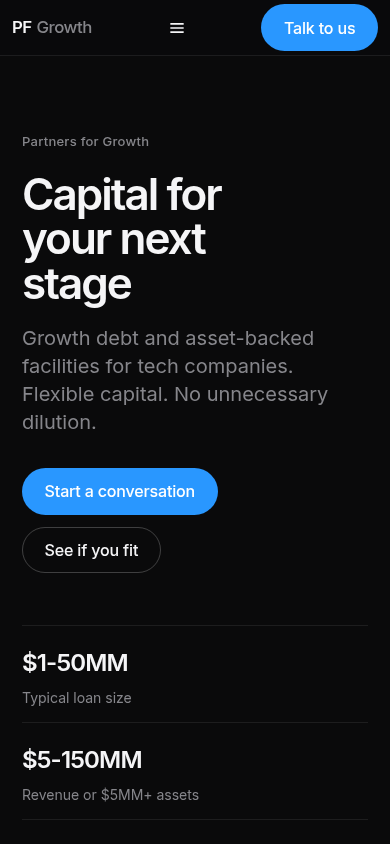
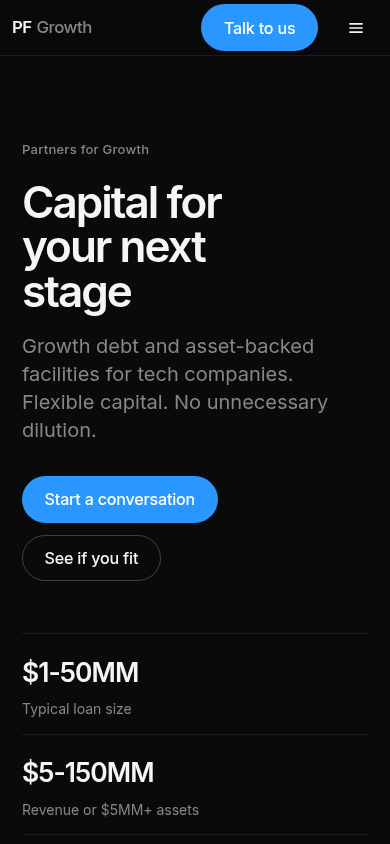
DRAFT: polish A with imagery, fit strip, mobile Talk to us
Integrate original hero/network/global visuals, tighten spacing and
hover/focus, keep DRAFT/noindex/a11y/AU English prototype constraints.

diff --git a/css/styles.css b/css/styles.css
@@ -1,4 +1,4 @@
-/* PF Growth redesign — Apple-like calm clarity, modern fintech */
+/* PF Growth redesign  -  Apple-like calm clarity, modern fintech */
 :root {
   --void: #0a0a0b;
   --panel: #141416;
@@ -188,8 +188,15 @@ a:hover {
 }
 
 .header-cta {
-  display: none;
+  display: inline-flex;
+  padding: 0.45rem 0.95rem;
+  min-height: 36px;
+  font-size: 0.875rem;
+  margin-left: auto;
 }
+.site-header .wrap { flex-wrap: nowrap; }
+.nav-toggle { order: 3; }
+.header-cta { order: 2; }
 
 @media (min-width: 860px) {
   .nav-toggle {
@@ -201,7 +208,9 @@ a:hover {
     background: transparent;
     border: 0;
     padding: 0;
+    order: 2;
   }
+  .header-cta { order: 3; padding: 0.65rem 1.35rem; min-height: 44px; font-size: 1rem; margin-left: 0; }
   .nav ul {
     display: flex;
     align-items: center;
@@ -217,9 +226,6 @@ a:hover {
   .nav a[aria-current="page"] {
     background: transparent;
     color: #f5f5f7;
-  }
-  .header-cta {
-    display: inline-flex;
   }
 }
 
@@ -274,7 +280,7 @@ a:hover {
   opacity: 0.92;
 }
 
-/* Hero — product scale */
+/* Hero  -  product scale */
 .hero {
   padding: 4.5rem 0 3.5rem;
   position: relative;
@@ -867,4 +873,93 @@ a:hover {
 .section-light .eyebrow,
 .section-mist .eyebrow {
   color: var(--mute-on-light);
+}
+
+/* Imagery + polish additions */
+.hero-visual {
+  margin: 2.5rem 0 0;
+  border-radius: 22px;
+  overflow: hidden;
+  border: 1px solid var(--line);
+  aspect-ratio: 16 / 10;
+  background: var(--panel);
+}
+.hero-visual img {
+  width: 100%;
+  height: 100%;
+  object-fit: cover;
+}
+.media-block {
+  margin: 0 0 2.25rem;
+  border-radius: 20px;
+  overflow: hidden;
+  border: 1px solid var(--line-dark);
+  aspect-ratio: 16 / 9;
+  background: #e8e8ed;
+}
+.section-slate .media-block {
+  border-color: var(--line);
+  background: #0f0f11;
+}
+.media-block img {
+  width: 100%;
+  height: 100%;
+  object-fit: cover;
+}
+.section-light .card,
+.section-mist .card {
+  border: 1px solid rgba(0,0,0,0.06);
+  transition: border-color 150ms ease, transform 150ms ease;
+}
+.section-light .card:hover,
+.section-mist .card:hover {
+  border-color: rgba(41,151,255,0.28);
+}
+.section-slate .card:hover {
+  border-color: rgba(41,151,255,0.35);
+}
+.btn:active {
+  transform: scale(0.98);
+}
+.link-arrow {
+  display: inline-flex;
+  align-items: center;
+  gap: 0.35rem;
+  font-weight: 500;
+  letter-spacing: -0.01em;
+  text-decoration: none;
+}
+.link-arrow:hover {
+  gap: 0.5rem;
+}
+.hero {
+  padding: 5rem 0 4rem;
+}
+.section {
+  padding: 6rem 0;
+}
+.page-hero {
+  padding: 4rem 0 2rem;
+}
+.fit-card strong {
+  font-size: 1.65rem;
+}
+.img-caption {
+  margin: 0.65rem 0 0;
+  font-size: 0.8125rem;
+  color: var(--mute);
+}
+.section-light .img-caption,
+.section-mist .img-caption {
+  color: var(--mute-on-light);
+}
+.product-shot {
+  border-radius: 20px;
+  overflow: hidden;
+  border: 1px solid var(--line-dark);
+}
+.product-shot img {
+  width: 100%;
+  height: auto;
+  display: block;
 }

diff --git a/index.html b/index.html
@@ -47,6 +47,9 @@
           <div class="fit-card"><strong>$5-150MM</strong><span>Revenue or $5MM+ assets</span></div>
           <div class="fit-card"><strong>Global</strong><span>Bay Area to Sydney and beyond</span></div>
         </div>
+        <figure class="hero-visual">
+          <img src="images/hero-abstract.png" width="1200" height="750" alt="Abstract cool light field suggesting calm modern capital markets" decoding="async">
+        </figure>
       </div>
     </section>
 
@@ -78,7 +81,7 @@
             <p>Warehouse and receivables facilities for fintech models that scale with their book.</p>
           </article>
         </div>
-        <p style="margin:2rem 0 0"><a href="growth-debt.html">Growth debt vs venture debt →</a></p>
+        <p style="margin:2.25rem 0 0"><a class="link-arrow" href="growth-debt.html">Growth debt vs venture debt →</a></p>
       </div>
     </section>
 
@@ -87,6 +90,9 @@
         <p class="eyebrow">Why founders choose PFG</p>
         <h2>Underwrite the company</h2>
         <p class="section-intro">We read your business, not only your syndicate. VC, PE, family office, or bootstrapped. Strong credit story first.</p>
+        <figure class="media-block">
+          <img src="images/capital-flow.png" width="1200" height="675" alt="Network of luminous capital flow nodes across a dark field" loading="lazy" decoding="async">
+        </figure>
         <ul class="list-check">
           <li>Open to diverse ownership, not only familiar VCs.</li>
           <li>Timing tied to strategy, not only equity rounds.</li>
@@ -113,7 +119,7 @@
             <p>Melbourne patient-booking SaaS used flexible debt to accelerate before cash flow turned positive.</p>
           </article>
         </div>
-        <p style="margin:2rem 0 0"><a href="portfolio.html">Browse proof by region →</a></p>
+        <p style="margin:2.25rem 0 0"><a class="link-arrow" href="portfolio.html">Browse proof by region →</a></p>
       </div>
     </section>
 
@@ -122,6 +128,9 @@
         <p class="eyebrow">Footprint</p>
         <h2>Where we work</h2>
         <p class="section-intro">Local presence from San Francisco Bay Area to Sydney, Boston, Miami, Dubai, and São Paulo.</p>
+        <figure class="media-block" style="aspect-ratio:21/9">
+          <img src="images/global-light.png" width="1200" height="514" alt="Soft global light map suggesting connected markets" loading="lazy" decoding="async">
+        </figure>
         <div class="region-map" aria-label="Regions">
           <div class="region-pill">North America</div>
           <div class="region-pill">Latin America</div>

diff --git a/portfolio.html b/portfolio.html
@@ -43,6 +43,9 @@
 
     <section class="section section-light" style="padding-top:1rem">
       <div class="wrap">
+        <figure class="media-block" style="margin-bottom:2.5rem">
+          <img src="images/global-light.png" width="1200" height="675" alt="Soft global light suggesting portfolio reach across markets" loading="lazy" decoding="async">
+        </figure>
         <div class="grid-2">
           <article class="card story">
             <div class="meta"><span class="tag">MENA · Fintech</span></div>

diff --git a/growth-debt.html b/growth-debt.html
@@ -42,6 +42,11 @@
     </section>
 
     <section class="section section-light" style="padding-top:1.5rem">
+      <div class="wrap">
+        <figure class="media-block" style="margin-bottom:2.5rem">
+          <img src="images/capital-flow.png" width="1200" height="675" alt="Abstract capital network visualising flexible growth facilities" loading="lazy" decoding="async">
+        </figure>
+      </div>
       <div class="wrap split">
         <div>
           <h2>Is this for you?</h2>

diff --git a/about.html b/about.html
@@ -42,6 +42,11 @@
     </section>
 
     <section class="section section-light" style="padding-top:1rem">
+      <div class="wrap">
+        <figure class="media-block" style="margin-bottom:2.5rem">
+          <img src="images/hero-abstract.png" width="1200" height="750" alt="Calm abstract light field for Partners for Growth" loading="lazy" decoding="async">
+        </figure>
+      </div>
       <div class="wrap split">
         <div>
           <h2>Our belief</h2>

diff --git a/design-direction.md b/design-direction.md
@@ -5,7 +5,7 @@ Modern growth-finance product site. Clarity first. Product-sharp, not heritage w
 ## Mood
 Forward tech with Apple-like restraint: large type, generous whitespace, calm surfaces, one clear hero claim. Still sharper modern fintech for growth debt founders (confident numbers, geometric sans, high contrast). Not PE brochure. Not family-office parchment. Not private-credit desk.
 
-Think product marketing clarity over finance ornament. Fewer cards, more breathing room. Accent used sparingly as signal, not chrome everywhere.
+Think product marketing clarity over finance ornament. Fewer cards, more breathing room. Accent used sparingly as signal, not chrome everywhere. Original abstract imagery supports hero and section rhythm (no stock brand photos).
 
 ## Colour
 | Token | Hex | Use |
@@ -23,15 +23,14 @@ Think product marketing clarity over finance ornament. Fewer cards, more breathi
 Contrast: body on Snow or Void ≥ 7:1. Accent buttons: white text on Accent, or dark text only if contrast holds. No warm copper. No parchment. No neon lime wash.
 
 ## Type
-- **Display:** Inter (tight, product UI) or SF-adjacent geometric sans via Inter + Space Grotesk for wordmark only.
-- Prefer one strong family: **Inter** for UI and display (Apple-like clarity). Optional Space Grotesk for logo only.
+- Prefer one strong family: **Inter** for UI and display.
 - Scale: hero 2.75-4.25rem; section 1.75-2.25rem; body 1.0625rem / 1.5; meta 0.8125rem.
 - Tracking tight on large display (−0.04em). Hierarchy by size/weight; colour second.
 
 ## Layout and hierarchy
 - Mobile-first. Side padding 20-24px. Section gaps 80-120px (more air).
-- Sticky compact header + “Talk to us” pill.
-- Hero: one claim, short lede, primary CTA, secondary text link. Fit strip immediately below.
+- Sticky compact header + “Talk to us” pill (visible on phone).
+- Hero: one claim, short lede, primary CTA, secondary text link. Fit strip immediately below. Hero visual after fit.
 - Prefer product-hero blocks and short proof rows over dense six-card grids.
 - Cards: thin hairlines, almost no shadow, calm hover (border only).
 - Phone composition is source of truth.
@@ -52,6 +51,7 @@ Contrast: body on Snow or Void ≥ 7:1. Accent buttons: white text on Accent, or
 - Not Fraunces + copper + warm paper.
 - Not loud neon fintech chrome.
 - Not Elementor clone or logo zoo.
+- Not HubSpot.
 
 ## Prototype notes
-Static HTML/CSS/JS. HubSpot unwired. Footer draft watermark retained.
+Static HTML/CSS/JS. Form unwired. Footer draft watermark retained.
